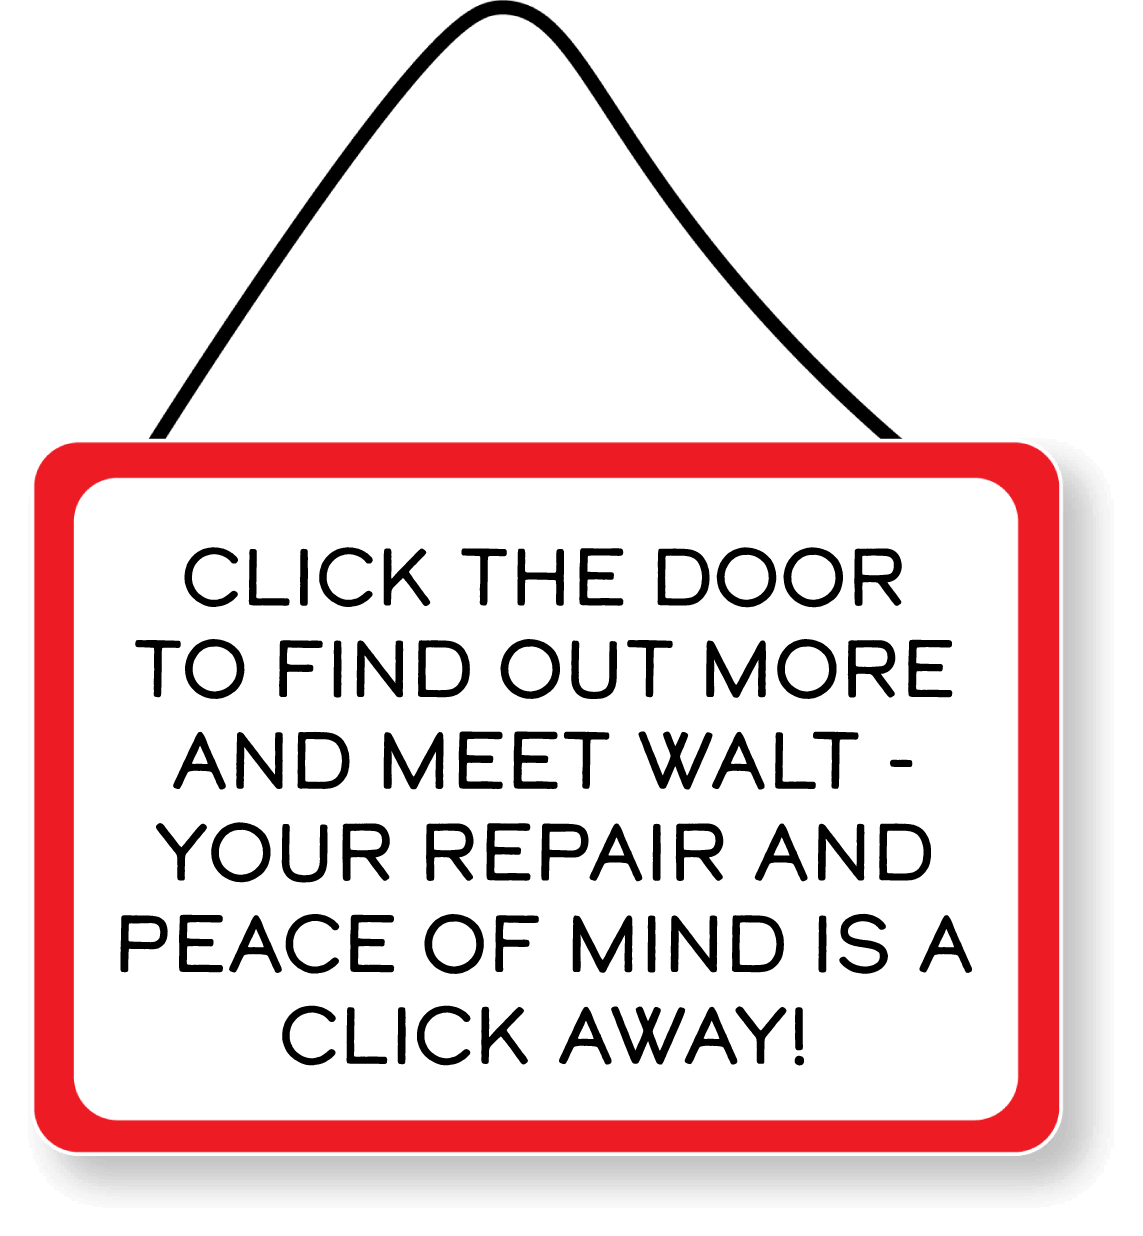
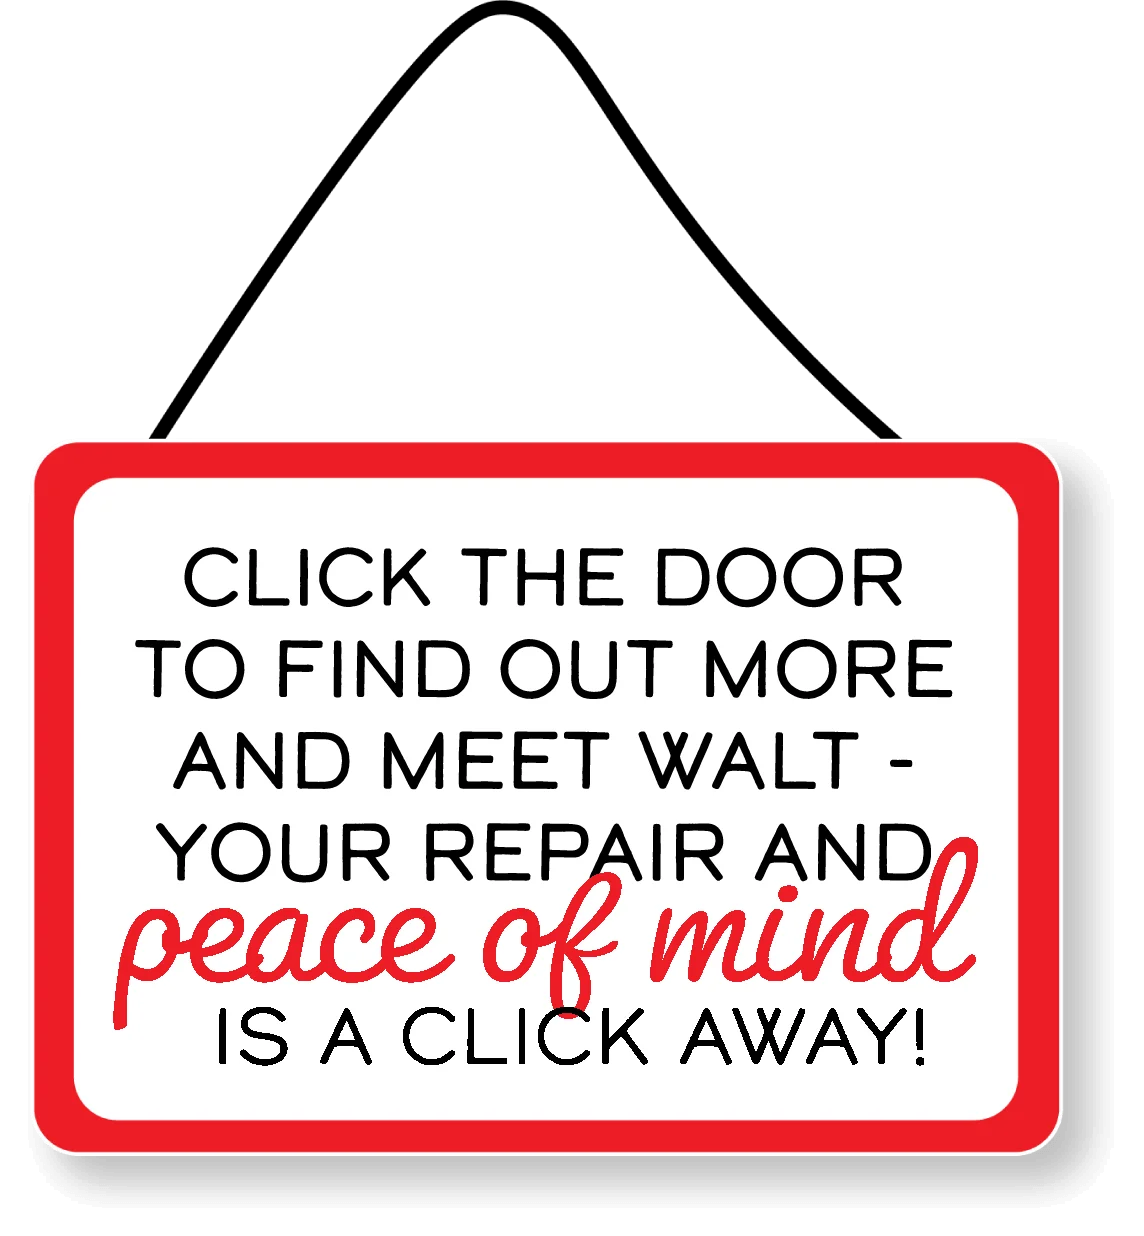
font edits

diff --git a/index.html b/index.html
@@ -17,12 +17,12 @@
 
     <section class="introduction" >
         <div id="hey-container">
-            <h1 class="greeting text-shadow">Hey Altoona <span style="font-size: 24px;">(and surrounding areas!)</span> </h1>
+            <h1 class="greeting text_shadows">Hey Altoona <span style="font-size: 24px;">(and surrounding areas!)</span> </h1>
         </div>
         
         <div id="message">
-            <p style="color: black;">If you live in or near Johnstown, Altoona or Indiana Pa. and you need EXPERT Clock Repair, Watch Repair, Cuckoo Clock or Grandfather Clock Repair...
-            and you want these repairs GUARANTEED and at a GREAT PRICE...your search is OVER </p>
+            <p style="color: black;">If you live in or near Johnstown, Altoona or Indiana Pa. and you need <span class="bright-text">EXPERT</span> Clock, Watch, Cuckoo or Grandfather Clock Repair...
+            and you want these repairs <span class="bright-text">GUARANTEED</span> and at a <span class="bright-text">GREAT PRICE</span>...your search is <span class="bright-text">OVER</span> </p>
         </div>
         <div class="logo-container">
             <img src="assets/mack-clock-repair-logo.webp" onclick="window.open('https://macksclockrepair.com/')" class="shadow logo" alt="Walt Mack Clock Repair logo" style="height: 100%; max-height: 125px;"/>
@@ -47,15 +47,10 @@
             </div>
             <div class="window-pane shadow">
                 <div class="window-pane-content">
-                    <svg  viewBox="-35 -35 400 150" class="shadow"  >
-                        <defs><style>.e{fill:url(#d)}</style><linearGradient id="d" x1="16.974" y1="-2170.642" x2="98.929" y2="-2088.686" gradientTransform="translate(0 -2071.713) scale(1 -1)" gradientUnits="userSpaceOnUse"><stop offset="0" stop-color="#bf7b33"/><stop offset=".19" stop-color="#e0bd7b"/><stop offset=".35" stop-color="#fdf6ba"/><stop offset=".48" stop-color="#fbeeaa"/><stop offset=".73" stop-color="#f4d880"/><stop offset=".75" stop-color="#f4d77e"/><stop offset=".82" stop-color="#e3be6c"/><stop offset=".94" stop-color="#ce9e56"/><stop offset="1" stop-color="#c6924d"/></linearGradient></defs>
-                        <path id="curve" fill="none" d="M0,105.108C27.45,42.364,88.974,1.188,156.959,.025c70.101-1.199,134.605,40.359,162.945,105.083"/>
-                        <text width="100%" class="tk-calder-dark-grit-shadow" style="font-size: 24px; text-shadow: 1px 1px 0px black;" fill="white"><textPath class="e" xlink:href="#curve" >One of the MOST RESPECTED</textPath></text>
-                        <text width="100%" class="tk-calder-dark-grit-shadow gold" style="transform:  translateY(-3px); font-size: 24px; -webkit-text-stroke: 0.5px black" fill="white"><textPath  xlink:href="#curve" >One of the MOST RESPECTED</textPath></text>
-                    </svg>
+                    <img src="assets/left-window.svg" style="height: 100px" alt="one of the most respected"/>
                     <div class="ornament-container"><img src="assets/dial.webp" class="shadow" alt="sun dial gold decal window decoration"/></div>
                     <h3 class="window-text-block-center gold-text-shadow shadow ">Clock, Watch, Cuckoo Clock &amp; Grandfather Clock Repair Experts</h3>
-                    <h4 class="window-text-block-bottom gold-text-shadow shadow">in the entire country is located near you in Altoona, Pennsylvania</h4>
+                    <h4 class="window-text-block-bottom gold-text-shadow shadow">in the <span style="color: #D1A25B">entire country</span> is located near you in Altoona, Pennsylvania!!</h4>
                 </div>
             </div>
        </div>
@@ -92,22 +87,18 @@
         </div>
         <div class="window-pane shadow">
             <div class="window-pane-content">
-                <svg viewBox="-40 -35 400 150" class="shadow" >
-                    <defs><style>.e{fill:url(#d)}</style><linearGradient id="d" x1="16.974" y1="-2170.642" x2="98.929" y2="-2088.686" gradientTransform="translate(0 -2071.713) scale(1 -1)" gradientUnits="userSpaceOnUse"><stop offset="0" stop-color="#bf7b33"/><stop offset=".19" stop-color="#e0bd7b"/><stop offset=".35" stop-color="#fdf6ba"/><stop offset=".48" stop-color="#fbeeaa"/><stop offset=".73" stop-color="#f4d880"/><stop offset=".75" stop-color="#f4d77e"/><stop offset=".82" stop-color="#e3be6c"/><stop offset=".94" stop-color="#ce9e56"/><stop offset="1" stop-color="#c6924d"/></linearGradient></defs>
-                    <path id="curve" fill="none" d="M0,105.108C27.45,42.364,88.974,1.188,156.959,.025c70.101-1.199,134.605,40.359,162.945,105.083"/>
-                    <text width="100%" class="tk-calder-dark-grit-shadow" style="font-size: 21px; text-shadow: 1px 1px 0px black;" fill="white"><textPath class="e" xlink:href="#curve" >3 Decades of Proven Prowess</textPath></text>
-                    <text width="100%" class="tk-calder-dark-grit-shadow gold" style="transform:  translateY(-3px); font-size: 21px; -webkit-text-stroke: 0.5px black" fill="white"><textPath  xlink:href="#curve" >3 Decades of Proven Prowess</textPath></text>
-                </svg>
+                <img src="assets/right-window.svg" style="height: 110px" alt="3 decades of proven prowess"/>
+
                 
                 <div class="ornament-container" style="height: 8vh;"><img src="assets/timer.webp" class="shadow" alt="decorative gold window decal sand timer"/></div>
                 <h3 class="window-text-block-center gold-text-shadow shadow">Employed, tenured and trusted by <a href="https://www.timex.com/" target="_blank">Timex</a> &amp; <a href="https://en.wikipedia.org/wiki/Waterbury_Clock_Company_factory" target="_blank">Waterbury Clock Co.</a></h3>
-                <h4 class="window-text-block-bottom gold-text-shadow shadow">Your broken clock will be no problem for Mack's Clock Repair!</h4>
+                <h4 class="window-text-block-bottom gold-text-shadow shadow">Your broken clock will be <span style="color: #D1A25B">no problem</span> for Mack's Clock Repair!</h4>
             </div>
         </div>
    </div>
     </section>
     <div id="patio">
-        <a href="https://macksclockrepair.com/real-testimonials.htm" rel="nofollow" target="_blank" aria-label="Click to view Mack's Testimonials on his official website">When you see Walt's credentials, you'll KNOW you can TRUST MACK'S CLOCK REPAIR ! Click for 5 STAR REVIEWS</a>
+        <a href="https://macksclockrepair.com/real-testimonials.htm" rel="nofollow" target="_blank" aria-label="Click to view Mack's Testimonials on his official website">When you see Walt's credentials, you'll KNOW you can TRUST MACK'S CLOCK REPAIR ! Click <span style="font-weight: 900; color: black; text-decoration: underline;">HERE for PEACE OF MIND!</span></a>
     </div>
 
   </body>

diff --git a/style.css b/style.css
@@ -51,7 +51,7 @@ strong {color: inherit}
 .awning {height: 75px; width: 100%; z-index: 2; display: flex; align-items: flex-end; justify-content: center; background-image: url('assets/new-awning.webp'); background-position: center center; background-repeat: no-repeat; background-size: 105% 100%;}
 .awning-text {display: flex; align-items: center; justify-content: center; width: 100%; height: 40px;}
 .window-pane {height: 100%; margin-top: -100px; width: 100%; position: absolute; background-image: url('assets/new-window.webp'); height: 100%; background-position: center center; background-repeat: no-repeat; background-size: 105% 90%;}
-.window-pane-content {margin: 100px 50px; height: 60%; text-align: center; padding: 2vh 1.75vw;  }
+.window-pane-content {margin: 100px 50px; height: 60%; text-align: center; padding: 2vh 2vw;  }
 .shelf {width: 85%; height: 50vh; margin: 0% 7.5% 0% 7.5%; position: absolute; display: flex; align-items: flex-end; bottom: 18%; background-color:rgba(0, 0, 0, 0.9)}
 
 .painted-letters {color: tan; text-shadow: 1px 1px 0px white; line-height: 0px; letter-spacing: 2px; -webkit-text-stroke: 0.25px white; opacity: 0.8; line-height: 20px!important; text-align: center;  font-family: "scrapbooker-little",sans-serif; }
@@ -91,3 +91,96 @@ svg { height: 10vh;}
     0%, 100%{ transform: rotate(-6deg);}
     50%{ transform: rotate(4deg); }
 }
+
+/*
+  --color-primary: #5192ED;
+  #F0544F: #F0544F;
+  --color-tertiary: ##F4807C;
+  --color-quaternary: #F7A4A1;
+  --color-quinary: #FCDBD9;
+  */
+
+  .text_shadows {
+    text-shadow: 3px 3px 0 #F0544F, 6px 6px 0 #F4807C,
+      9px 9px #F7A4A1, 12px 12px 0 #FCDBD9;
+    
+    font-weight: 400;
+    text-transform: uppercase;
+    text-align: center;
+
+    color: white;
+
+    animation: shadows 1.2s ease-in infinite, move 1.2s ease-in infinite;
+    letter-spacing: 0.4rem;
+  }
+
+  .bright-text {
+    font-weight: 900;
+    font-size: 22px!important;
+    color: #F0544F;
+    text-shadow: 1px 1px 0 white;
+  }
+
+@keyframes shadows {
+    0% {
+      text-shadow: none;
+    }
+    10% {
+      text-shadow: 3px 3px 0 #F0544F;
+    }
+    20% {
+      text-shadow: 3px 3px 0 #F0544F,
+        6px 6px 0 #F0544F;
+    }
+    30% {
+      text-shadow: 3px 3px 0 #F0544F,
+        6px 6px 0 #F0544F, 9px 9px #F7A4A1;
+    }
+    40% {
+      text-shadow: 3px 3px 0 #F0544F,
+        6px 6px 0 #F0544F, 9px 9px #F7A4A1,
+        12px 12px 0 #FCDBD9;
+    }
+    50% {
+      text-shadow: 3px 3px 0 #F0544F,
+        6px 6px 0 #F0544F, 9px 9px #F7A4A1,
+        12px 12px 0 #FCDBD9;
+    }
+    60% {
+      text-shadow: 3px 3px 0 #F0544F,
+        6px 6px 0 #F0544F, 9px 9px #F7A4A1,
+        12px 12px 0 #FCDBD9;
+    }
+    70% {
+      text-shadow: 3px 3px 0 #F0544F,
+        6px 6px 0 #F0544F, 9px 9px #F7A4A1;
+    }
+    80% {
+      text-shadow: 3px 3px 0 #F0544F,
+        6px 6px 0 #F0544F;
+    }
+    90% {
+      text-shadow: 3px 3px 0 #F0544F;
+    }
+    100% {
+      text-shadow: none;
+    }
+  }
+  
+  @keyframes move {
+    0% {
+      transform: translate(0px, 0px);
+    }
+    40% {
+      transform: translate(-12px, -12px);
+    }
+    50% {
+      transform: translate(-12px, -12px);
+    }
+    60% {
+      transform: translate(-12px, -12px);
+    }
+    100% {
+      transform: translate(0px, 0px);
+    }
+  }
